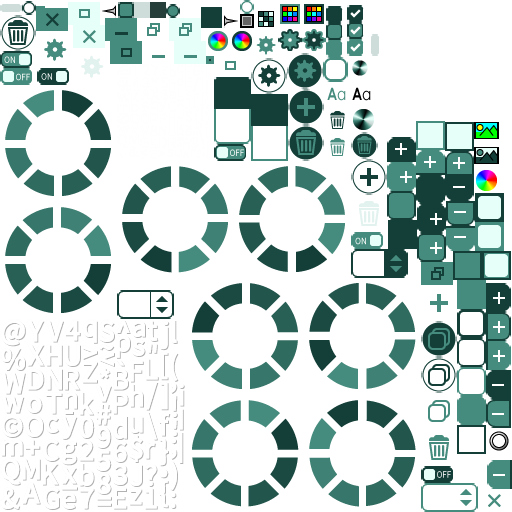
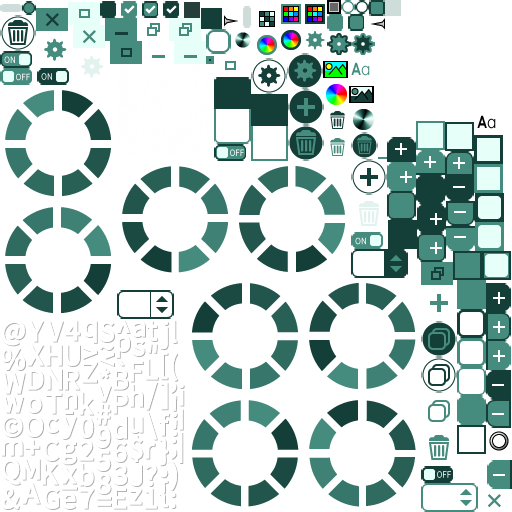
Adjusted appearance of browsefield and color base. Fixed errors with default paths.

diff --git a/core/src/com/ray3k/skincomposer/data/ProjectData.java b/core/src/com/ray3k/skincomposer/data/ProjectData.java
@@ -74,16 +74,6 @@ public class ProjectData implements Json.Serializable {
         setId(id);
     }
     
-//    public void setLastDirectory(String lastDirectory) {
-//        preferences.put("last-directory", lastDirectory);
-//        generalPref.putString("last-directory", lastDirectory);
-//        generalPref.flush();
-//    }
-//    
-//    public String getLastDirectory() {
-//        return (String) preferences.get("last-directory", generalPref.getString("last-directory", Gdx.files.getLocalStoragePath()));
-//    }
-    
     public Array<RecentFile> getRecentFiles() {
         Array<RecentFile> returnValue = new Array<>();
         int maxIndex = Math.min(MAX_RECENT_FILES, generalPref.getInteger("recentFilesCount", 0));
@@ -169,16 +159,6 @@ public class ProjectData implements Json.Serializable {
     public FileHandle getSaveFile() {
         return saveFile;
     }
-    
-//    public String getBestSaveDirectory() {
-//        if (saveFile != null) {
-//            return saveFile.parent().path();
-//        } else if (generalPref.contains("last-save-directory")) {
-//            return generalPref.getString("last-save-directory");
-//        } else {
-//            return getLastDirectory();
-//        }
-//    }
 
     public boolean areChangesSaved() {
         return changesSaved;
@@ -202,20 +182,6 @@ public class ProjectData implements Json.Serializable {
     public boolean isNewProject() {
         return newProject;
     }
-    
-//    public String getDefaultPath() {
-//        String defaultPath = "";
-//
-//        if (getLastDirectory() != null) {
-//            FileHandle fileHandle = new FileHandle(getLastDirectory());
-//            if (fileHandle.exists()) {
-//                System.out.println("Yes" + fileHandle.path());
-//                defaultPath = getLastDirectory() + "/";
-//            }
-//        }
-//        
-//        return defaultPath;
-//    }
     
     //todo: do not create a folder if there are no files to transfer.
     private void moveImportedFiles(FileHandle oldSave, FileHandle newSave) {
@@ -353,73 +319,63 @@ public class ProjectData implements Json.Serializable {
 
     public String getLastOpenSavePath() {
 
-        return (String) preferences.get("last-open-save-path",
-                generalPref.getString("last-open-save-path",
-                        generalPref.getString("last-path",
-                                Gdx.files.getLocalStoragePath())));
-    }
-    
-    public void setLastOpenSavePath(String openSavePath) {
-        preferences.put("last-open-save-path", openSavePath);
-        generalPref.putString("last-open-save-path", openSavePath);
-        generalPref.flush();
-        
-        setLastPath(openSavePath);
-    }
-    
-    public String getLastImportExportPath() {
-        return (String) preferences.get("last-import-export-path",
-                generalPref.getString("last-import-export-path",
-                        generalPref.getString("last-path",
-                                Gdx.files.getLocalStoragePath())));
-    }
-    
-    public void setLastImportExportPath(String importExportPath) {
-        preferences.put("last-import-export-path", importExportPath);
-        generalPref.putString("last-import-export-path", importExportPath);
-        generalPref.flush();
-        
-        setLastPath(importExportPath);
-    }
-    
-    public String getLastFontPath() {
-        return (String) preferences.get("last-font-path",
-                generalPref.getString("last-font-path",
-                        generalPref.getString("last-path",
-                                Gdx.files.getLocalStoragePath())));
-    }
-    
-    public void setLastFontPath(String fontPath) {
-        preferences.put("last-font-path", fontPath);
-        generalPref.putString("last-font-path", fontPath);
-        generalPref.flush();
-        
-        setLastPath(fontPath);
-    }
-    
-    public String getLastDrawablePath() {
-        return (String) preferences.get("last-drawable-path",
-                generalPref.getString("last-drawable-path",
-                        generalPref.getString("last-path",
-                                Gdx.files.getLocalStoragePath())));
-    }
-    
-    public void setLastDrawablePath(String drawablePath) {
-        preferences.put("last-drawable-path", drawablePath);
-        generalPref.putString("last-drawable-path", drawablePath);
-        generalPref.flush();
-        
-        setLastPath(drawablePath);
-    }
-    
-    public String getLastPath() {
-        return (String) preferences.get("last-path",
+        return (String) generalPref.getString("last-open-save-path",
                 generalPref.getString("last-path",
                         Gdx.files.getLocalStoragePath()));
     }
+
+    public void setLastOpenSavePath(String openSavePath) {
+        generalPref.putString("last-open-save-path", openSavePath);
+        generalPref.flush();
+
+        setLastPath(openSavePath);
+    }
+
+    public String getLastImportExportPath() {
+        return (String) generalPref.getString("last-import-export-path",
+                generalPref.getString("last-path",
+                        Gdx.files.getLocalStoragePath()));
+    }
+
+    public void setLastImportExportPath(String importExportPath) {
+        generalPref.putString("last-import-export-path", importExportPath);
+        generalPref.flush();
+
+        setLastPath(importExportPath);
+    }
+
+    public String getLastFontPath() {
+        return (String) generalPref.getString("last-font-path",
+                generalPref.getString("last-path",
+                        Gdx.files.getLocalStoragePath()));
+    }
+
+    public void setLastFontPath(String fontPath) {
+        generalPref.putString("last-font-path", fontPath);
+        generalPref.flush();
+
+        setLastPath(fontPath);
+    }
+
+    public String getLastDrawablePath() {
+        return (String) generalPref.getString("last-drawable-path",
+                generalPref.getString("last-path",
+                        Gdx.files.getLocalStoragePath()));
+    }
+
+    public void setLastDrawablePath(String drawablePath) {
+        generalPref.putString("last-drawable-path", drawablePath);
+        generalPref.flush();
+
+        setLastPath(drawablePath);
+    }
+
+    public String getLastPath() {
+        return (String) generalPref.getString("last-path",
+                Gdx.files.getLocalStoragePath());
+    }
     
     public void setLastPath(String lastPath) {
-        preferences.put("last-path", lastPath);
         generalPref.putString("last-path", lastPath);
         generalPref.flush();
     }

diff --git a/core/src/com/ray3k/skincomposer/RootTable.java b/core/src/com/ray3k/skincomposer/RootTable.java
@@ -172,12 +172,12 @@ public class RootTable extends Table {
 
         menuButtonStyle.menuListStyle = menuListStyle;
 
-        bfColorStyle = new BrowseFieldStyle(getSkin().get("color", ImageButtonStyle.class), getSkin().get(TextButtonStyle.class), getSkin().get(LabelStyle.class));
-        bfDrawableStyle = new BrowseFieldStyle(getSkin().get("drawable", ImageButtonStyle.class), getSkin().get(TextButtonStyle.class), getSkin().get(LabelStyle.class));
-        bfFontStyle = new BrowseFieldStyle(getSkin().get("font", ImageButtonStyle.class), getSkin().get(TextButtonStyle.class), getSkin().get(LabelStyle.class));
-        bfColorStyleR = new BrowseFieldStyle(getSkin().get("color", ImageButtonStyle.class), getSkin().get(TextButtonStyle.class), getSkin().get("required", LabelStyle.class));
-        bfDrawableStyleR = new BrowseFieldStyle(getSkin().get("drawable", ImageButtonStyle.class), getSkin().get(TextButtonStyle.class), getSkin().get("required", LabelStyle.class));
-        bfFontStyleR = new BrowseFieldStyle(getSkin().get("font", ImageButtonStyle.class), getSkin().get(TextButtonStyle.class), getSkin().get("required", LabelStyle.class));
+        bfColorStyle = new BrowseFieldStyle(getSkin().get("color", ImageButtonStyle.class), getSkin().get("browse-field", TextButtonStyle.class), getSkin().get(LabelStyle.class));
+        bfDrawableStyle = new BrowseFieldStyle(getSkin().get("drawable", ImageButtonStyle.class), getSkin().get("browse-field", TextButtonStyle.class), getSkin().get(LabelStyle.class));
+        bfFontStyle = new BrowseFieldStyle(getSkin().get("font", ImageButtonStyle.class), getSkin().get("browse-field", TextButtonStyle.class), getSkin().get(LabelStyle.class));
+        bfColorStyleR = new BrowseFieldStyle(getSkin().get("color", ImageButtonStyle.class), getSkin().get("browse-field", TextButtonStyle.class), getSkin().get("required", LabelStyle.class));
+        bfDrawableStyleR = new BrowseFieldStyle(getSkin().get("drawable", ImageButtonStyle.class), getSkin().get("browse-field", TextButtonStyle.class), getSkin().get("required", LabelStyle.class));
+        bfFontStyleR = new BrowseFieldStyle(getSkin().get("font", ImageButtonStyle.class), getSkin().get("browse-field", TextButtonStyle.class), getSkin().get("required", LabelStyle.class));
         
         getSkin().add("default", menuButtonStyle);
         getSkin().add("default", menuListStyle);

diff --git a/core/src/com/ray3k/skincomposer/MainListener.java b/core/src/com/ray3k/skincomposer/MainListener.java
@@ -223,14 +223,7 @@ public class MainListener extends RootTableListener {
     
     public void importFile() {
         dialogFactory.showDialogLoading(() -> {
-            String defaultPath = "";
-
-            if (projectData.getLastImportExportPath() != null) {
-                FileHandle fileHandle = new FileHandle(defaultPath);
-                if (fileHandle.exists()) {
-                    defaultPath = projectData.getLastImportExportPath();
-                }
-            }
+            String defaultPath = projectData.getLastImportExportPath();
 
             String[] filterPatterns = {"*.json"};
 
@@ -253,14 +246,7 @@ public class MainListener extends RootTableListener {
     
     public void exportFile() {
         dialogFactory.showDialogLoading(() -> {
-            String defaultPath = "";
-
-            if (projectData.getLastImportExportPath() != null) {
-                FileHandle fileHandle = new FileHandle(defaultPath);
-                if (fileHandle.exists()) {
-                    defaultPath = projectData.getLastImportExportPath();
-                }
-            }
+            String defaultPath = projectData.getLastImportExportPath();
 
             String[] filterPatterns = {"*.json"};
 
